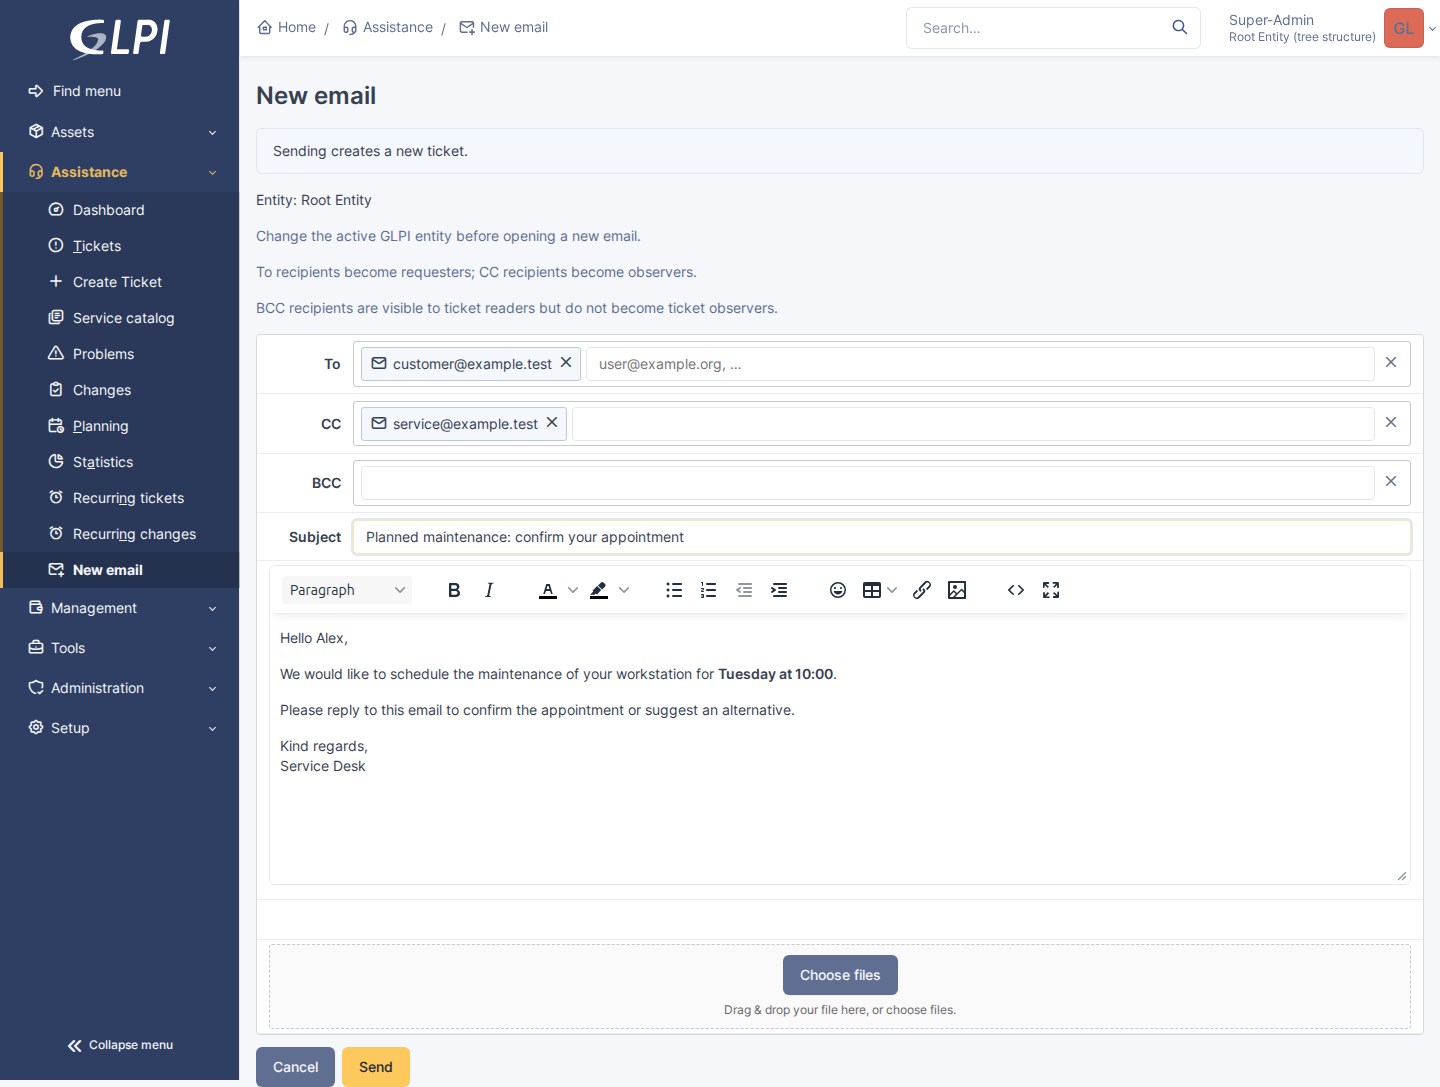
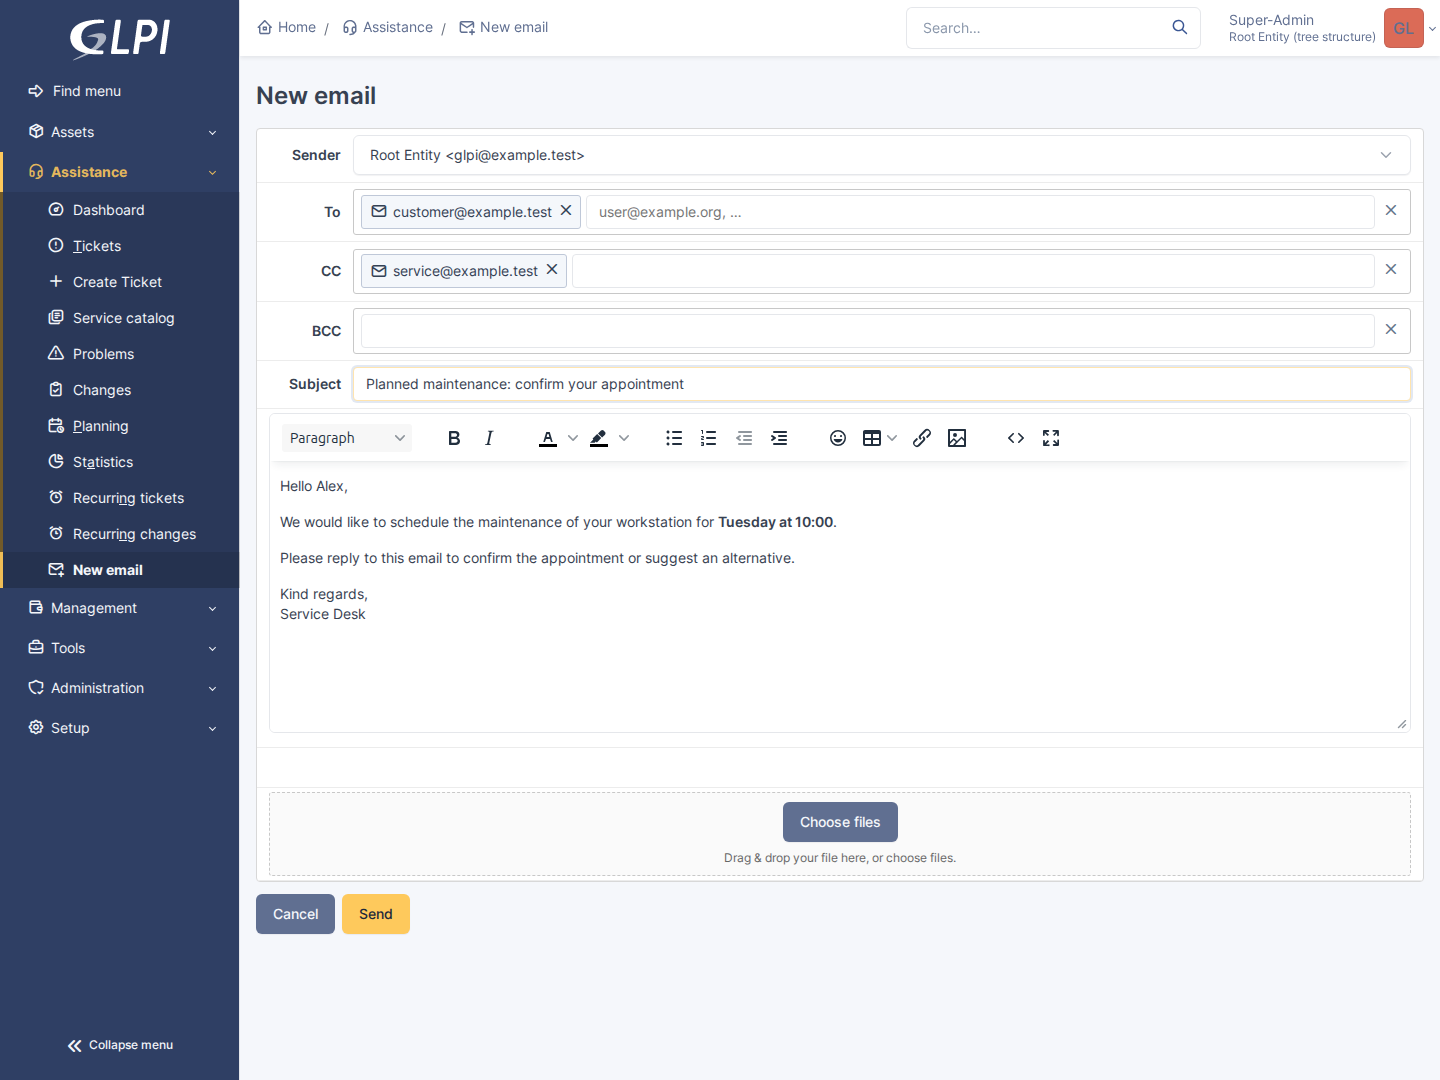
feat: select sender entity when composing a new email

diff --git a/inc/proactive.class.php b/inc/proactive.class.php
@@ -10,7 +10,47 @@ class PluginTicketmailerProactive
             && Session::haveRight('ticket', CREATE)
             && Session::haveRight('ticket', UPDATE)
             && (Session::haveRight('ticket', Ticket::READMY) || Session::haveRight('ticket', Ticket::READALL))
-            && Session::haveAccessToEntity($entity);
+            && in_array($entity, self::authorizedEntities(), true);
+    }
+
+    public static function authorizedEntities(): array
+    {
+        return array_values(array_map('intval', Profile_User::getEntitiesForProfileByUser(
+            (int) Session::getLoginUserID(), (int) ($_SESSION['glpiactiveprofile']['id'] ?? 0), true,
+        )));
+    }
+
+    /** Scope GLPI checks to a selected authorized entity for this request only. */
+    public static function enterEntity(array $context): void
+    {
+        $entity = (int) $context['entities_id'];
+        if (!self::canUse($entity)) { throw new RuntimeException('Unauthorized sender entity.'); }
+        $before = $_SESSION['glpiactiveentities'] ?? [];
+        $_SESSION['glpiactiveentities'] = [$entity];
+        register_shutdown_function(static function () use ($before): void {
+            $_SESSION['glpiactiveentities'] = $before;
+        });
+    }
+
+    public static function senderOptions(): array
+    {
+        $options = [];
+        foreach (self::authorizedEntities() as $entity) {
+            if (!self::canUse($entity)) { continue; }
+            $sender = Config::getEmailSender($entity);
+            if (!filter_var($sender['email'] ?? '', FILTER_VALIDATE_EMAIL)) { continue; }
+            $options[] = ['id'=>$entity, 'label'=>Dropdown::getDropdownName('glpi_entities', $entity) . ' <' . $sender['email'] . '>'];
+        }
+        return $options;
+    }
+
+    public static function selectEntity(array $context, int $entity): array
+    {
+        if (!self::canUse($entity)) { throw new RuntimeException('Unauthorized sender entity.'); }
+        if (self::state($context)['phase'] !== 'open') { return $context; }
+        $context['entities_id'] = $entity;
+        $_SESSION['ticketmailer_proactive'][$context['token']] = $context;
+        return $context;
     }
 
     public static function getMenuContent(): array

diff --git a/front/send.php b/front/send.php
@@ -20,6 +20,12 @@ if (!empty($_POST['compose_token'])) {
     }
     $proactive_lock = PluginTicketmailerProactive::lock($proactive_context);
     $proactive_state = PluginTicketmailerProactive::state($proactive_context);
+    if ($proactive_state['phase'] === 'open') {
+        $entity = filter_var($_POST['sender_entity'] ?? $proactive_context['entities_id'], FILTER_VALIDATE_INT);
+        if ($entity === false || !PluginTicketmailerProactive::canUse($entity)) { Html::displayRightError(); }
+        $proactive_context = PluginTicketmailerProactive::selectEntity($proactive_context, $entity);
+        PluginTicketmailerProactive::enterEntity($proactive_context);
+    }
     if ($proactive_state['phase'] !== 'open') {
         Session::addMessageAfterRedirect(__('This message has already been submitted. Check the ticket before sending again.', 'ticketmailer'), true, WARNING);
         Html::redirect($proactive_state['tickets_id'] > 0 ? Ticket::getFormURLWithID((int) $proactive_state['tickets_id']) : Ticket::getSearchURL());
@@ -157,7 +163,7 @@ if ($errors !== [] && $proactive_context !== null) {
     echo TemplateRenderer::getInstance()->render('@ticketmailer/compose.html.twig', [
         'proactive'=>true, 'compose_token'=>$proactive_context['token'],
         'uploaded_attachments'=>$uploaded_attachments, 'uploaded_images'=>$uploaded_images,
-        'entity_name'=>Dropdown::getDropdownName('glpi_entities', (int) $proactive_context['entities_id']),
+        'sender_options'=>PluginTicketmailerProactive::senderOptions(), 'sender_entity'=>(int) $proactive_context['entities_id'],
         'subject'=>$human_subject, 'new_conversation'=>true, 'body_editor'=>$body_editor, 'editor_id'=>$editor_id,
         'recipients_to_raw'=>$recipients_to_raw, 'recipients_cc_raw'=>$recipients_cc_raw, 'recipients_bcc_raw'=>$recipients_bcc_raw,
         'csrf_token'=>Session::getNewCSRFToken(), 'ajax_csrf'=>Session::getNewCSRFToken(true),

diff --git a/front/new.php b/front/new.php
@@ -16,7 +16,7 @@ $editor = ob_get_clean();
 Html::header(__('New email', 'ticketmailer'), $_SERVER['PHP_SELF'], 'helpdesk', 'PluginTicketmailerProactive');
 echo '<h1>' . htmlescape(__('New email', 'ticketmailer')) . '</h1>';
 echo TemplateRenderer::getInstance()->render('@ticketmailer/compose.html.twig', [
-    'proactive'=>true, 'compose_token'=>$context['token'], 'entity_name'=>Dropdown::getDropdownName('glpi_entities', $entity),
+    'proactive'=>true, 'compose_token'=>$context['token'], 'sender_options'=>PluginTicketmailerProactive::senderOptions(), 'sender_entity'=>$entity,
     'subject'=>'', 'new_conversation'=>true, 'body_editor'=>$editor, 'editor_id'=>$editor_id,
     'csrf_token'=>Session::getNewCSRFToken(), 'ajax_csrf'=>Session::getNewCSRFToken(true),
     'send_url'=>$web . '/front/send.php', 'upload_url'=>$web . '/ajax/upload.php',

diff --git a/tests/fixtures/proactive-rights-probe.php b/tests/fixtures/proactive-rights-probe.php
@@ -2,8 +2,10 @@
 const CREATE = 4;
 const UPDATE = 2;
 class Ticket { public const READMY = 1; public const READALL = 1024; public const READASSIGN = 4096; }
+class Profile_User { public static function getEntitiesForProfileByUser(...$args): array { return [0]; } }
 class Session {
     public static int $rights;
+    public static function getLoginUserID(): int { return 1; }
     public static function getCurrentInterface(): string { return 'central'; }
     public static function haveRight(string $name, int $right): bool { return (self::$rights & $right) !== 0; }
     public static function haveAccessToEntity(int $entity): bool { return true; }

diff --git a/README.md b/README.md
@@ -187,7 +187,7 @@ Licensed under the [GNU General Public License, version 3 or later](LICENSE).
 
 ### New email
 
-In **Assistance → New email**, write a proactive message without first creating a ticket. **Send** creates the ticket in the entity active when the form was opened, then sends and records the message. To recipients become requesters; CC recipients become observers. BCC recipients are visible to ticket readers but do not become observers. Change GLPI's active entity before opening the form. This action requires ticket creation and update rights in the central interface. The entity signature is appended at send time. Cancelling creates no ticket. Ticket-template mandatory fields and business rules still apply; if creation or post-create authorization fails, no email is sent. Failed or uncertain delivery must be checked on the existing ticket before any manual retry. Incoming replies require a configured GLPI mail collector and reply routing; the ticket marker alone does not retrieve mail.
+In **Assistance → New email**, write a proactive message without first creating a ticket. **Send** creates the ticket in the entity selected in Sender, then sends and records the message. To recipients become requesters; CC recipients become observers. BCC recipients are visible to ticket readers but do not become observers. Sender lists authorized entities with their configured email address; its selection determines the ticket entity and signature without changing the active GLPI entity. This action requires ticket creation and update rights in the central interface. The entity signature is appended at send time. Cancelling creates no ticket. Ticket-template mandatory fields and business rules still apply; if creation or post-create authorization fails, no email is sent. Failed or uncertain delivery must be checked on the existing ticket before any manual retry. Incoming replies require a configured GLPI mail collector and reply routing; the ticket marker alone does not retrieve mail.
 ### Configurable ticket actions
 
 Global settings select the buttons in Ticketmailer's grouped action bar: Answer,

diff --git a/docs/wiki/User-Guide-EN.md b/docs/wiki/User-Guide-EN.md
@@ -183,4 +183,4 @@ Sometimes the email was sent but could not be saved in the ticket. GLPI then sho
 
 ### New email
 
-In **Assistance → New email**, write a proactive message without first creating a ticket. **Send** creates the ticket in the entity active when the form was opened, then sends and records the message. To recipients become requesters; CC recipients become observers. BCC recipients are visible to ticket readers but do not become observers. Change GLPI's active entity before opening the form. This action requires ticket creation and update rights in the central interface. The entity signature is appended at send time. Cancelling creates no ticket. Ticket-template mandatory fields and business rules still apply; if creation or post-create authorization fails, no email is sent. Failed or uncertain delivery must be checked on the existing ticket before any manual retry. Incoming replies require a configured GLPI mail collector and reply routing; the ticket marker alone does not retrieve mail.
+In **Assistance → New email**, write a proactive message without first creating a ticket. **Send** creates the ticket in the entity selected in Sender, then sends and records the message. To recipients become requesters; CC recipients become observers. BCC recipients are visible to ticket readers but do not become observers. Sender lists authorized entities with their configured email address; its selection determines the ticket entity and signature without changing the active GLPI entity. This action requires ticket creation and update rights in the central interface. The entity signature is appended at send time. Cancelling creates no ticket. Ticket-template mandatory fields and business rules still apply; if creation or post-create authorization fails, no email is sent. Failed or uncertain delivery must be checked on the existing ticket before any manual retry. Incoming replies require a configured GLPI mail collector and reply routing; the ticket marker alone does not retrieve mail.

diff --git a/docs/wiki/Benutzerhandbuch-DE.md b/docs/wiki/Benutzerhandbuch-DE.md
@@ -184,3 +184,5 @@ Manchmal wurde die E-Mail versendet, konnte aber nicht im Ticket gespeichert wer
 ### Neue E-Mail
 
 Unter **Support → Neue E-Mail** können Sie eine Nachricht schreiben, ohne vorher ein Ticket anzulegen. **Senden** erstellt das Ticket in der beim Öffnen aktiven Einheit und versendet die Nachricht. An-Empfänger werden Anforderer, CC-Empfänger werden Beobachter. BCC-Empfänger sind für Ticketleser sichtbar, werden aber nicht Beobachter. Wechseln Sie bei Bedarf vor dem Öffnen die aktive GLPI-Einheit. Die Funktion benötigt Erstell- und Änderungsrechte für Tickets in der Standardoberfläche. Die Signatur der Einheit wird beim Versand angefügt. Abbrechen erstellt kein Ticket. Pflichtfelder aus Ticketvorlagen und Geschäftsregeln gelten weiterhin. Schlägt die Anlage oder die anschließende Berechtigungsprüfung fehl, wird keine E-Mail versendet. Prüfen Sie bei fehlgeschlagenem oder unklarem Versand zuerst das bereits angelegte Ticket. Eingehende Antworten setzen einen eingerichteten GLPI-Mailcollector und die passende Antwortzuordnung voraus.
+
+Bei **Neue E-Mail** bestimmt die Zeile **Absender** die Einheit des neuen Tickets, die konfigurierte Absenderadresse und die Signatur. Die Auswahl umfasst die Einheiten des aktuell verwendeten Profils. Die globale GLPI-Einheit bleibt unverändert.

diff --git a/.agent/contracts/glpi-ticket-email-client-v2/spec.md b/.agent/contracts/glpi-ticket-email-client-v2/spec.md
@@ -207,3 +207,5 @@ email input remains supported. Each modal open restores its button-specific mode
 Action labels are short and translated consistently (Answer, Task, Solution,
 Document, Internal note). The connected group uses native solid primary buttons.
 Settings group action switches, email-dialog controls and behavior separately.
+
+- New email exposes a Sender entity selector above To, listing entities authorized for the current agent profile with their configured email address. Selection determines ticket entity, sender and signature; the global active entity is unchanged. Informational creation/recipient/entity banners are omitted.
